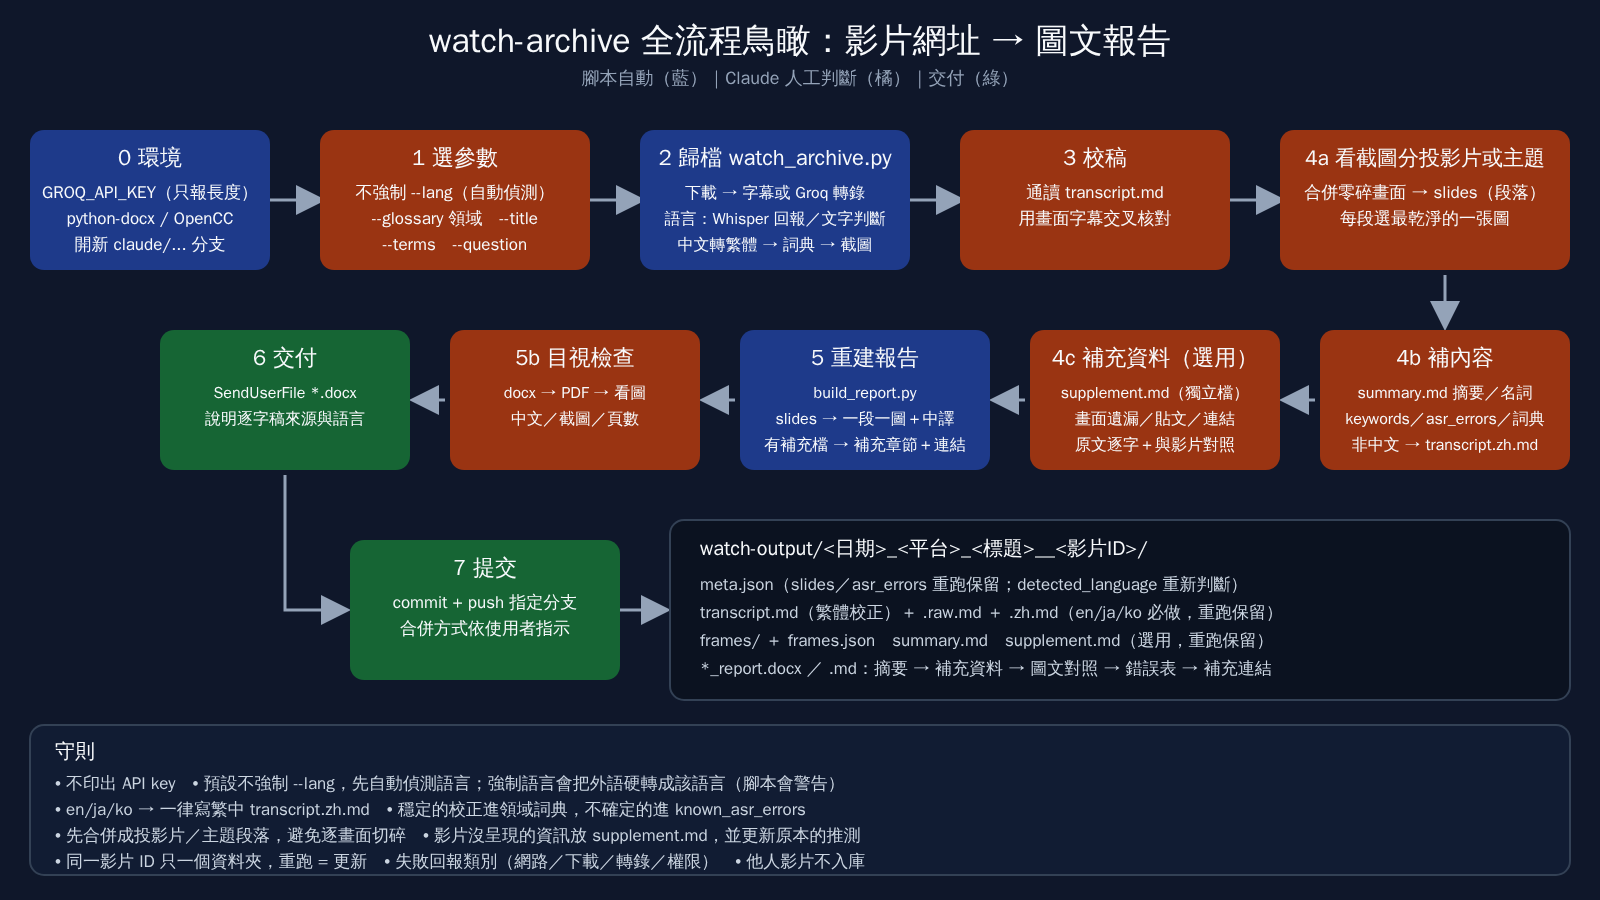
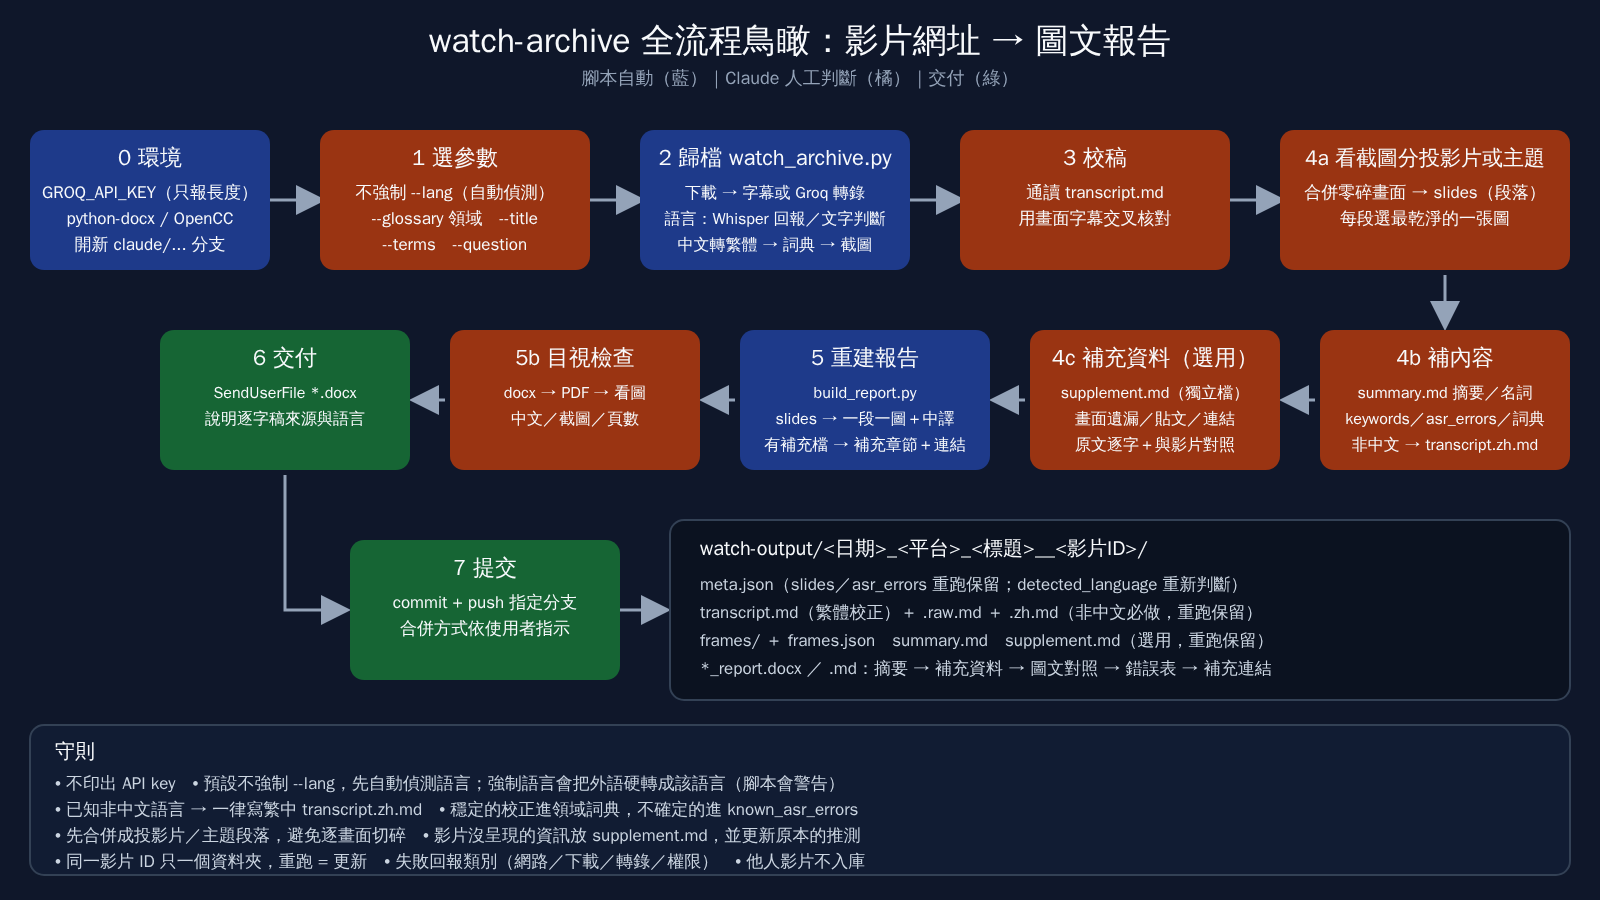
Round-5 review fixes: yue/nn/underscore language names, empty transcript is unknown, deterministic chunk language vote, env-forced language, Whisper-vs-text conflict warning, skip WhisperX language; update diagram and tests
Claude-Session: https://claude.ai/code/session_018V6Fu5BPSFZCUm4855xFzi

Changed region(s): [[0.0312, 0.8711, 0.5312, 0.9333], [0.6562, 0.6533, 0.7812, 0.7156]]

diff --git a/scripts/watch_archive.py b/scripts/watch_archive.py
@@ -124,36 +124,75 @@ def detect_language(text: str) -> str:
     return "other"
 
 
-WHISPER_LANGUAGES = {
-    "english": "en", "chinese": "zh", "cantonese": "zh", "mandarin": "zh", "japanese": "ja", "korean": "ko",
-    "spanish": "es", "french": "fr", "german": "de", "portuguese": "pt", "russian": "ru", "italian": "it",
-    "vietnamese": "vi", "thai": "th", "indonesian": "id", "arabic": "ar", "hindi": "hi", "turkish": "tr",
-}
+# Whisper's language names -> codes (99 languages; 'cantonese' / 'yue' count as Chinese for our purposes)
+_WHISPER_NAMES = (
+    "afrikaans af|albanian sq|amharic am|arabic ar|armenian hy|assamese as|azerbaijani az|bashkir ba|basque eu|"
+    "belarusian be|bengali bn|bosnian bs|breton br|bulgarian bg|burmese my|catalan ca|chinese zh|croatian hr|"
+    "czech cs|danish da|dutch nl|english en|estonian et|faroese fo|finnish fi|french fr|galician gl|georgian ka|"
+    "german de|greek el|gujarati gu|haitian_creole ht|hausa ha|hawaiian haw|hebrew he|hindi hi|hungarian hu|"
+    "icelandic is|indonesian id|italian it|japanese ja|javanese jw|kannada kn|kazakh kk|khmer km|korean ko|lao lo|"
+    "latin la|latvian lv|lingala ln|lithuanian lt|luxembourgish lb|macedonian mk|malagasy mg|malay ms|"
+    "malayalam ml|maltese mt|maori mi|marathi mr|mongolian mn|nepali ne|norwegian no|occitan oc|pashto ps|"
+    "persian fa|polish pl|portuguese pt|punjabi pa|romanian ro|russian ru|sanskrit sa|serbian sr|shona sn|"
+    "sindhi sd|sinhala si|slovak sk|slovenian sl|somali so|spanish es|sundanese su|swahili sw|swedish sv|"
+    "tagalog tl|tajik tg|tamil ta|tatar tt|telugu te|thai th|tibetan bo|turkish tr|turkmen tk|ukrainian uk|"
+    "urdu ur|uzbek uz|vietnamese vi|welsh cy|yiddish yi|yoruba yo|cantonese zh|mandarin zh"
+)
+WHISPER_LANGUAGES = {pair.split()[0].replace("_", " "): pair.split()[1] for pair in _WHISPER_NAMES.split("|")}
+WHISPER_CODES = set(WHISPER_LANGUAGES.values()) | {"yue"}
+# Whisper often emits these on silence / music; they are not trustworthy language ids
+UNRELIABLE_WHISPER = {"nn", "nynorsk"}
 
 
 def normalize_whisper_language(raw: str) -> str:
-    """Whisper reports a language name ('english') or code ('en'); return a lowercase ISO-style code, '' if absent."""
-    name = (raw or "").strip().lower()
-    if not name:
-        return ""
-    if name in WHISPER_LANGUAGES:
-        return WHISPER_LANGUAGES[name]
-    return name.split("-")[0] if re.fullmatch(r"[a-z]{2,3}(-[a-z]+)?", name) else name
+    """Whisper reports a language name ('english') or code ('en', 'zh-TW', 'yue'); return a lowercase code.
+
+    Returns '' when absent, unparseable (digits, junk) or known to be unreliable ('nn'); the caller then falls back
+    to the text heuristic.
+    """
+    name = re.sub(r"\s+", " ", (raw or "").strip().lower().replace("_", " "))
+    for candidate in (name, re.split(r"[ \-(]", name)[0]):  # 'haitian creole', then 'chinese' from 'chinese (traditional)' / 'zh-tw'
+        if not candidate or candidate in UNRELIABLE_WHISPER:
+            return ""
+        if candidate in WHISPER_LANGUAGES:
+            return WHISPER_LANGUAGES[candidate]
+        if candidate == "yue":
+            return "zh"
+        if candidate in WHISPER_CODES:
+            return candidate
+    return ""
+
+
+def forced_language(arg_lang: str, environ=None) -> str:
+    """--lang, or WATCH_WHISPER_LANGUAGE already set in the environment: both force Whisper's language."""
+    return arg_lang or (environ if environ is not None else os.environ).get("WATCH_WHISPER_LANGUAGE", "")
+
+
+def _has_content(text: str) -> bool:
+    body = re.sub(r"\[\d{1,2}:\d{2}(?::\d{2})?\]|```|^#.*$|^_Source:.*$", "", text, flags=re.M)
+    return bool(re.search(r"[A-Za-z\u3040-\u30ff\u4e00-\u9fff\uac00-\ud7af]", body))
 
 
 def resolve_language(text: str, whisper_raw: str = "", forced: str = "") -> tuple[str, str]:
-    """Pick the language label and say where it came from: ('zh', 'whisper'|'heuristic'|'heuristic (forced --lang)').
+    """Pick the language label and say where it came from: (language, source).
 
-    Whisper's own language id is more reliable than character ratios (short or mixed-language text), so it wins when
-    present. It is ignored when --lang was forced (Whisper then just echoes the forced language). Platform captions
-    carry no Whisper language, so those fall back to detect_language().
+    source is 'whisper', 'whisper (text: zh)' (Whisper and the text disagree: a human should check),
+    'heuristic' or 'heuristic (forced --lang)'. Whisper's own language id wins when present (more reliable than
+    character ratios for short or mixed text) unless the language was forced (Whisper then just echoes it) or the
+    transcript has no content (silence/music: Whisper still reports a language). Platform captions carry no
+    Whisper language, so those use detect_language().
     """
     if forced:
         return detect_language(text), "heuristic (forced --lang)"
+    if not _has_content(text):
+        return "unknown", "heuristic"
     code = normalize_whisper_language(whisper_raw)
-    if code:
-        return code, "whisper"
-    return detect_language(text), "heuristic"
+    if not code:
+        return detect_language(text), "heuristic"
+    text_lang = detect_language(text)
+    cjk = ("zh", "ja", "ko")
+    conflict = (code in cjk and text_lang in cjk + ("en",) and text_lang != code) or (code not in cjk and text_lang in cjk)
+    return code, f"whisper (text: {text_lang})" if conflict else "whisper"
 
 
 def needs_zh_translation(detected: str) -> bool:
@@ -296,7 +335,10 @@ def main():
     tm = re.search(r"## Transcript\s*\n(.*?)(?:\n---\n_Work dir|\Z)", report, re.S)
     transcript_raw = tm.group(1).strip() if tm else ""
     detected_language, language_source = resolve_language(
-        transcript_raw, field(report, "Whisper language"), args.lang)
+        transcript_raw, field(report, "Whisper language"), forced_language(args.lang))
+    if "(text:" in language_source:
+        print(f"WARNING: Whisper reported '{detected_language}' but the transcript text looks different "
+              f"({language_source}); check the language before relying on translation / conversion.", file=sys.stderr)
     to_zh_tw = convert_to_traditional(detected_language)
     if to_zh_tw:
         transcript, glossary_applied = apply_glossary(fullwidth_punct(to_traditional(transcript_raw)), gl_replace)
@@ -393,8 +435,8 @@ def main():
 
     update_index(dest, meta)
     print(f"archived -> {dest.relative_to(ROOT)}")
-    if args.lang:
-        print(f"WARNING: --lang {args.lang} was forced to Whisper, so a wrong language would NOT be caught; "
+    if forced_language(args.lang):
+        print(f"WARNING: --lang {forced_language(args.lang)} was forced to Whisper, so a wrong language would NOT be caught; "
               "if the audio is another language the transcript will be garbage. Rerun without --lang if unsure.", file=sys.stderr)
     if detected_language == "zh":
         print(f"language: zh [{language_source}]（已轉繁體 zh-TW）")

diff --git a/tests/test_whisper_language.py b/tests/test_whisper_language.py
@@ -15,7 +15,9 @@ class NormalizeWhisperLanguage(unittest.TestCase):
     def test_names_and_codes(self):
         for raw, expected in (("english", "en"), ("English", "en"), ("Chinese", "zh"), ("cantonese", "zh"),
                               ("japanese", "ja"), ("korean", "ko"), ("en", "en"), ("zh-TW", "zh"), ("spanish", "es"),
-                              ("  ", ""), ("", ""), ("klingon", "klingon")):
+                              ("  ", ""), ("", ""), ("dutch", "nl"), ("haitian creole", "ht"), ("Haitian_Creole", "ht"),
+                              ("yue", "zh"), ("zh_tw", "zh"), ("chinese (traditional)", "zh"),
+                              ("nn", ""), ("nynorsk", ""), ("123", ""), ("klingon", "")):
             self.assertEqual(wa.normalize_whisper_language(raw), expected, raw)
 
 
@@ -25,7 +27,7 @@ class ResolveLanguage(unittest.TestCase):
 
     def test_whisper_language_wins_over_text_heuristic(self):
         # the text looks Chinese, but Whisper said Japanese: trust Whisper
-        self.assertEqual(wa.resolve_language(self.CHINESE_TEXT, "japanese"), ("ja", "whisper"))
+        self.assertEqual(wa.resolve_language(self.CHINESE_TEXT, "japanese"), ("ja", "whisper (text: zh)"))  # Whisper wins, the clash is flagged
 
     def test_captions_without_whisper_language_use_heuristic(self):
         self.assertEqual(wa.resolve_language(self.ENGLISH_TEXT, ""), ("en", "heuristic"))
@@ -34,6 +36,33 @@ class ResolveLanguage(unittest.TestCase):
         lang, source = wa.resolve_language(self.CHINESE_TEXT, "chinese", forced="zh")
         self.assertEqual(lang, "zh")
         self.assertIn("forced", source)
+
+    def test_empty_transcript_is_unknown_even_if_whisper_reports_a_language(self):
+        self.assertEqual(wa.resolve_language("", "english"), ("unknown", "heuristic"))
+        self.assertEqual(wa.resolve_language("# t\n_Source: whisper (groq)._\n```\n```\n", "english")[0], "unknown")
+
+    def test_unreliable_or_unparseable_whisper_language_falls_back_to_text(self):
+        for raw in ("nn", "123", "klingon"):
+            self.assertEqual(wa.resolve_language(self.ENGLISH_TEXT, raw), ("en", "heuristic"), raw)
+
+    def test_conflict_between_whisper_and_text_is_flagged_not_hidden(self):
+        lang, source = wa.resolve_language(self.CHINESE_TEXT, "english")  # e.g. an English song at the start
+        self.assertEqual(lang, "en")
+        self.assertEqual(source, "whisper (text: zh)")
+        self.assertEqual(wa.resolve_language(self.ENGLISH_TEXT, "spanish"), ("es", "whisper"))  # Latin vs Latin: no conflict
+
+    def test_yue_counts_as_chinese(self):
+        self.assertEqual(wa.resolve_language(self.CHINESE_TEXT, "yue"), ("zh", "whisper"))
+
+    def test_environment_language_counts_as_forced(self):
+        self.assertEqual(wa.forced_language("", {"WATCH_WHISPER_LANGUAGE": "zh"}), "zh")
+        self.assertEqual(wa.forced_language("en", {"WATCH_WHISPER_LANGUAGE": "zh"}), "en")
+        self.assertEqual(wa.forced_language("", {}), "")
+
+    def test_whisper_language_line_matches_report_header_format(self):
+        report = "# watch: video report\n\n- **Source:** https://x\n- **Duration:** 00:42 (42.1s)\n- **Whisper language:** chinese\n\n## Transcript\n"
+        self.assertEqual(wa.field(report, "Whisper language"), "chinese")
+        self.assertEqual(wa.field("- **Duration:** 00:42\n", "Whisper language"), "")
 
     def test_translation_flag_for_any_known_non_chinese_language(self):
         for lang, expected in (("en", True), ("ja", True), ("es", True), ("zh", False), ("other", False), ("unknown", False)):
@@ -57,6 +86,15 @@ class SegmentsCarryLanguage(unittest.TestCase):
             return seg
         chunks = [(Path("a"), 0.0), (Path("b"), 10.0), (Path("c"), 20.0)]
         self.assertEqual(whisper.transcribe_chunks(chunks, fake).language, "english")
+
+    def test_tie_is_deterministic_and_silent_chunks_do_not_vote(self):
+        def fake(path):
+            seg = transcribe.Segments([{"start": 0.0, "end": 1.0, "text": "t"}] if path.name != "s" else [])
+            seg.language = {"a": "english", "b": "chinese", "s": "korean"}[path.name]
+            return seg
+        chunks = [(Path("a"), 0.0), (Path("s"), 10.0), (Path("b"), 20.0)]
+        for _ in range(5):  # the winner must not depend on hash order; a tie keeps the earliest chunk's language
+            self.assertEqual(whisper.transcribe_chunks(chunks, fake).language, "english")
 
 
 if __name__ == "__main__":

diff --git a/.claude/skills/watch/scripts/whisper.py b/.claude/skills/watch/scripts/whisper.py
@@ -13,6 +13,7 @@ from __future__ import annotations
 import os
 import io
 import json
+from collections import Counter
 import math
 import mimetypes
 import shutil
@@ -329,7 +330,7 @@ def transcribe_chunks(
             )
             continue
         segments.extend(shift_segments(chunk_segments, offset))
-        if getattr(chunk_segments, "language", ""):
+        if chunk_segments and getattr(chunk_segments, "language", ""):  # only chunks that actually had speech vote
             languages.append(chunk_segments.language)
         print(
             f"[watch] chunk {index + 1}/{len(chunks)} → {len(chunk_segments)} segments",
@@ -340,7 +341,7 @@ def transcribe_chunks(
         raise SystemExit("Whisper failed on every audio chunk")
     segments.no_speech = not segments and not failures
     if languages:
-        segments.language = max(set(languages), key=languages.count)
+        segments.language = Counter(languages).most_common(1)[0][0]  # ties keep the earliest chunk's language
     return segments
 
 

diff --git a/.claude/skills/watch/scripts/watch.py b/.claude/skills/watch/scripts/watch.py
@@ -271,7 +271,8 @@ def main() -> int:
             try:
                 all_segments, used_backend = transcribe_video(video_path, work / "audio.mp3", backend=backend, api_key=api_key)
                 gaps = getattr(all_segments, "gaps", [])
-                whisper_language = getattr(all_segments, "language", "") or ""
+                # WhisperX's JSON language is unreliable without alignment (see the skill notes): only API backends count
+                whisper_language = "" if used_backend == "whisperx" else (getattr(all_segments, "language", "") or "")
                 track_available = True
                 transcript_state = "no speech" if not all_segments else "available"
                 if used_backend == "whisperx":

diff --git a/README.md b/README.md
@@ -121,7 +121,7 @@ python3 -m unittest discover -s tests -v   # 語言偵測、supplement.md 解析
 ### 限制與風險
 
 - **平台**：YouTube 在雲端環境常被擋（HTTP 429、要求登入），歸檔會失敗；Google Drive 影片須設成「知道連結的任何人」才抓得到（403 通常是權限問題，歸檔後建議改回私人）。上游 `watch` skill 的 Gemini 引擎可能遇到服務塞車（503）或模型停用（例如 `gemini-2.5-flash` 已不開放新使用者；預設模型為 `gemini-3.7-flash`），失敗時不會自動降級，需明確改用本機引擎（設定環境變數 `WATCH_ENGINE=local` 後再執行；`watch_archive.py` 本身沒有 `--engine` 參數）。
-- **語言偵測**：Whisper 轉錄的影片直接採用 Whisper 回報的語言（已在真實影片驗證）；平台字幕來源與強制 `--lang` 時退回啟發式，只看文字的字元比例（門檻為經驗值，僅在少數影片實測），此時 `en` 代表拉丁字母的非中文（西班牙文也會標 `en`）；`other`（混雜）與 `unknown`（太短或缺失）必須人工確認；`--lang` 強制語言時偵測不出錯誤。`ja`／`ko`／`other` 不做簡轉繁，是為了避免把日文漢字改壞（会議→會議）。
+- **語言偵測**：Whisper 回報的語言在無語音（靜音、純音樂）、`nn` 等不可靠標籤時不採用；Whisper 與文字判斷明顯衝突時（例如中文影片開頭有英文歌）會在 `language_source` 標註並印警告，需人工確認；環境變數 `WATCH_WHISPER_LANGUAGE` 或 `--lang` 都算強制語言；WhisperX 後端的語言不可靠，不採用。Whisper 轉錄的影片直接採用 Whisper 回報的語言（目前只在一支中文 Instagram 影片實測過）；平台字幕來源與強制 `--lang` 時退回啟發式，只看文字的字元比例（門檻為經驗值，僅在少數影片實測），此時 `en` 代表拉丁字母的非中文（西班牙文也會標 `en`）；`other`（混雜）與 `unknown`（太短或缺失）必須人工確認；`--lang` 強制語言時偵測不出錯誤。`ja`／`ko`／`other` 不做簡轉繁，是為了避免把日文漢字改壞（会議→會議）。
 - **偵測的已知盲點**：日文以平假名判斷（至少一半含漢字的行有平假名，且占比 ≥15% 才判 `ja`，5–15% 判 `other` 交給人確認；中文只在少數行夾日文會維持 `zh`），所以①以漢字為主的日文（新聞標題、名詞列表）可能判成 `zh` 而被簡轉繁改字；②純片假名日文判成 `other`；③帶漢字的韓文可能判成 `zh`；④`unknown`（太短）仍會簡轉繁，短日文句（如「会議です」）會被改。整份逐字稿只有一兩行的極短影片，中文夾日文仍可能誤判。`main()` 的語言分流與資料夾改名目前沒有自動化測試。
 - **轉錄品質**：Whisper 常把 Claude 聽成 Cloud 等；詞典 `claude-code` 的替換假設講者在談 Claude，若影片在講雲端請勿載入。Whisper 提示詞以「、」串接，可能讓它偏向中文，尚未驗證。
 - **舊資料**：語言偵測加入前歸檔的影片，`meta.json` 沒有 `detected_language`，重跑歸檔才會補上。
